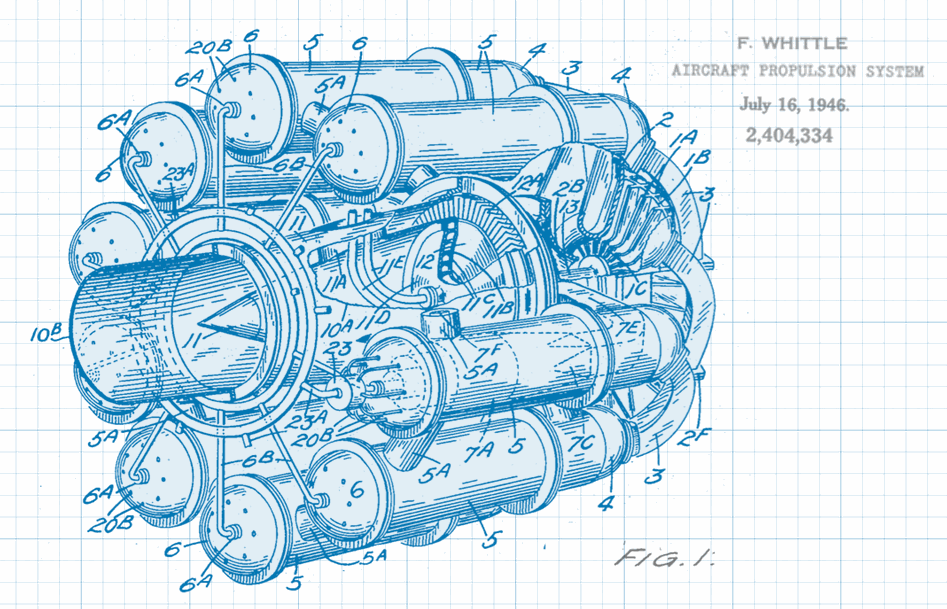
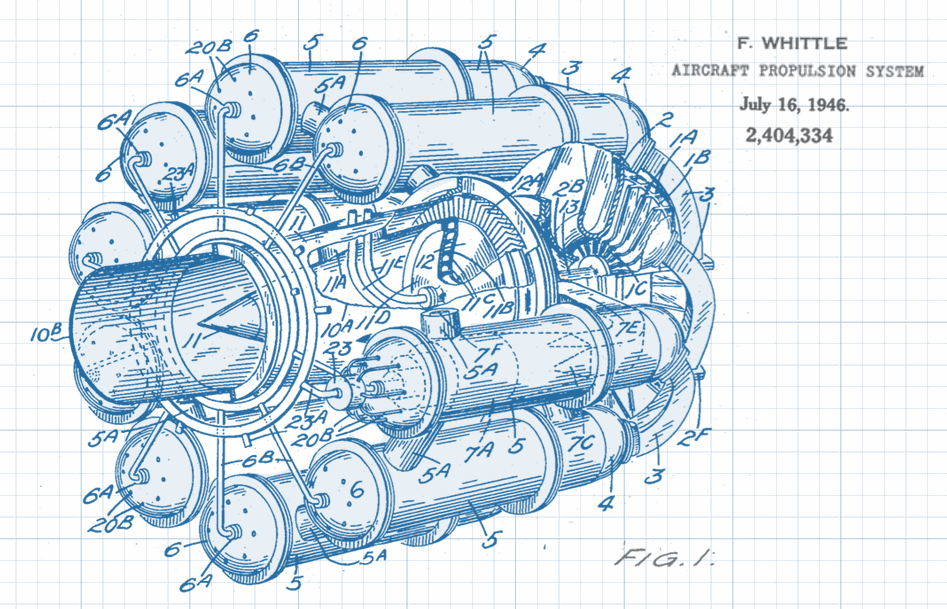
images

diff --git a/pages/patent-basics.md b/pages/patent-basics.md
@@ -48,7 +48,7 @@ A US utility patent grants the right to prevent other people from making, sellin
 
 Patents are national rights. A US patent does not automatically grant rights in any other countries. 
 
-<img src="/images/patent-drawings/fusion-hirsch-1970.png">
+<img src="/images/patent-drawings/fusion-hirsch-1970.png" class="translucent">
 
 ## Provisional Patent Applications
 
@@ -56,14 +56,14 @@ A provisional patent application is a temporary patent application that nails do
 
 There are several benefits. Its often cheaper to file a provisional application than prepare a complete patent application. This allows an inventor to delay some legal costs for a year, and use this year to test the market for the new technology. 
 
-<img src="/images/patent-drawings/engine-starting-lansing-1932.png">
+<img src="/images/patent-drawings/engine-starting-lansing-1932.png" class="translucent">
 
 
 ## Design Patents
 
 Design patents protect the "ornamental appearance" of a product. They can protect industrial design and physical products, as well as software user interface designs and fonts. 
 
-<img src="/images/patent-drawings/harley-davidson-design-patent-1919.png">
+<img src="/images/patent-drawings/harley-davidson-design-patent-1919.png" class="translucent">
 
 ## Plant Patents 
 
@@ -71,7 +71,7 @@ Plants can be patented. Plant patents protect newly discovered varieties of *ase
 
 A plant patent lasts for 20 years from the application date. 
 
-<img src="/images/patent-drawings/avocado-patent-hass-1935.jpg">
+<img src="/images/patent-drawings/avocado-patent-hass-1935.jpg" class="translucent">
 
 <hr class="tall">
 
@@ -103,7 +103,7 @@ The patent lawyer will quickly know whether she is the right lawyer for your inv
 * **Allowance and Issue**. If the Patent Examiner cannot find any prior art, she will allow the claims. The inventor pays an "issue fee" and the patent application is on its way to becoming a full patent. 
 
 
-<img src="/images/patent-drawings/3d-printer-1994.png">
+<img src="/images/patent-drawings/3d-printer-1994.png" class="translucent">
 
 - - - 
 

diff --git a/pages/patent-invention-disclosure.md b/pages/patent-invention-disclosure.md
@@ -116,15 +116,11 @@ Name of Invention:
 
 For each inventor, provide: 
 
-Full Name:
-
-Address:
-
-Telephone:
-
-E-mail:
-
-Citizenship: 
+- Full Name:
+- Address:
+- Telephone:
+- E-mail:
+- Citizenship: 
 
 - - - 
 
